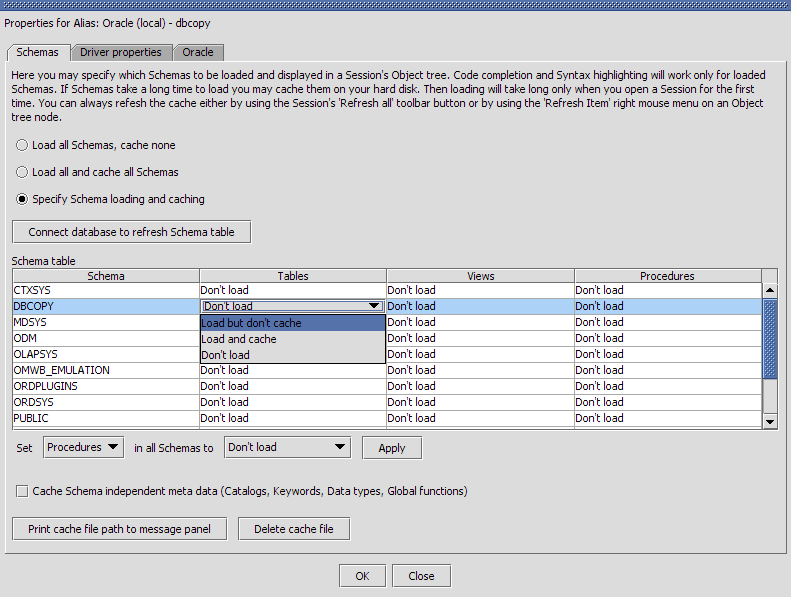
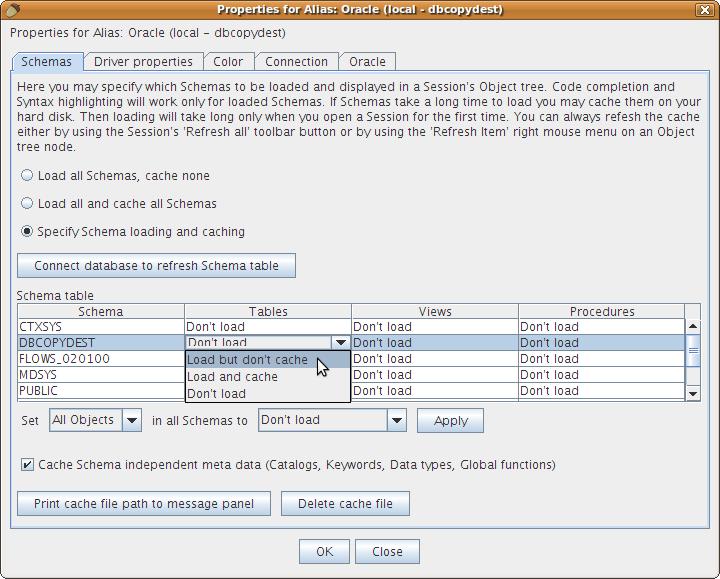
Updated documentation for 3.1 release.
git-svn-id: https://squirrel-sql.svn.sourceforge.net/svnroot/squirrel-sql/trunk@5512 0ceafaf9-a5ae-48a7-aaeb-8ec3e0f2870c

diff --git a/sql12/doc/quick_start.html b/sql12/doc/quick_start.html
@@ -419,16 +419,76 @@ loaded at all for each schema. The Alias Properties dialog is displayed
 below:</p>
 
 <p align="CENTER"><img src="images/alias_properties_dialog.png"
-	border="0" alt="Alias Properties Dialog"></p>
+	border="0" alt="Alias Properties Dialog (Schema Tab)"></p>
 
 The
 <em>Connect database to refresh Schema table</em>
 button will load all schemas from the database into the table for
 customization.
+
 <br clear="LEFT">
 
+<p/><b>Driver Properties Tab</b> - this tab allows you to configure the driver properties that
+will be used when an alias connects to the database.  Driver properties are a way that
+JDBC vendors can give access to database-specific settings that alter the characteristics
+of the database connection and the session resulting from that connection.  For example, Oracle 
+provides properties that allow you to configure an SSL protected connection to keep your data 
+from traversing a network in the clear.  The set of available properties shown in this tab is 
+reported to SQuirreL by the JDBC driver, so if any appear to be missing, check the vendor's 
+documentation and/or file a bug report with that vendor. Of course, you may also add and remove 
+properties by right-clicking anywhere in the table and accessing the context menu.  The 
+following image shows an alias for Oracle and some of the driver properties that it supports:
 
-<p>As more aliases are added, it can become to difficult locate the
+<p align="CENTER"><img src="images/alias_properties_dialog2.png"
+	border="0" alt="Alias Properties Dialog (Driver Properties Tab)"></p>
+
+<p/><b>Color Tab</b> - this tab allows you to configure a custom background color for some parts
+of SQuirreL to give a visual clue about the session.  This is primarily useful when you have 
+multiple aliases to the same type of database, for example, one for test and one for production.
+SQuirreL makes it easy to connect to multiple databases simultaneously, and since the sessions 
+can appear to be very similar, it is easy to mistake one for another.  Using this tab, you can,
+for example, give your production database alias a background color of red or orange to denote
+caution, whereas a development database alias could be given a color of green or blue to 
+indicate that it's data is safe to modify/destroy. The following image shows an alias whose 
+background color is light red to indicate that caution should be used:
+
+<p align="CENTER"><img src="images/alias_properties_dialog3.png"
+	border="0" alt="Alias Properties Dialog (Color Tab)"></p>
+ 
+The following image shows what the color configuration above looks like for a new session created
+from this alias:
+
+<p align="CENTER"><img src="images/session_background_color_example.png"
+	border="0" alt="Session Background Color Example"></p>
+
+<p/><b>Connection Tab</b> - this tab allows you to configure an SQL statement to execute periodically 
+in the background.  This can help keep the session connection alive for firewalls that terminate 
+connections due to inactivity.  There is no support for working with data returned from the 
+SQL statement so any data returned will be ignored.  Therefore, the SQL statement should be a valid, 
+idempotent one that is not resource intensive (Execution errors will be reported in the squirrel-sql.log).
+Note that the statement separator (";" or "GO") should be omitted here. The period between executions of 
+the SQL statement is specified in seconds.  The following image shows an example configuration for the 
+Oracle database with a commonly used SQL statement for testing Oracle connections:   
+
+<p align="CENTER"><img src="images/alias_properties_dialog4.png"
+	border="0" alt="Alias Properties Dialog (Color Tab)"></p>
+
+<p/><b>Oracle Tab</b> - this tab serves to customize schema loading for Oracle.  The Oracle database driver
+returns metadata that lists all objects (schemas and their objects) in the database, even those that the 
+connected user doesn't have permission to access in any meaningful way.  This can cause a session connection
+to take a long time to initialize as SQuirreL runs through all of the objects reported by the driver to 
+populate the object tree.  SQuirreL employs a strategy to help reduce this initialization time by giving
+you the ability to limit the schemas being loaded to just the ones that the user has access to.  This tab
+provides customizations that work together with the Schemas tab previously introduced above.  Instructions 
+are provided that describe each setting's behavior. The following image shows this tab:
+
+<p align="CENTER"><img src="images/alias_properties_dialog5.png"
+	border="0" alt="Alias Properties Dialog (Oracle Tab)"></p>
+ 
+
+<h3>Alias Organization</h3>
+
+<p>As more aliases are added, it can become difficult to locate the
 desired alias to use or modify. To help organize the aliases in the
 alias window, they can be grouped into folders or even nested folders.
 In order to turn this capability on, you must right-click anywhere in
@@ -466,7 +526,7 @@ shown.</p>
 
 <p>The Object Tree on the left shows the structure of the database.
 Clicking on various nodes within this object tree will show further
-information in the right hand detail panel. In this example the database
+information in the detail panel on the right. In this example the database
 metadata is shown. Clicking on the title of a column will sort the
 display by the data in that column. This is true of all tabular displays
 in SQuirreL.</p>
